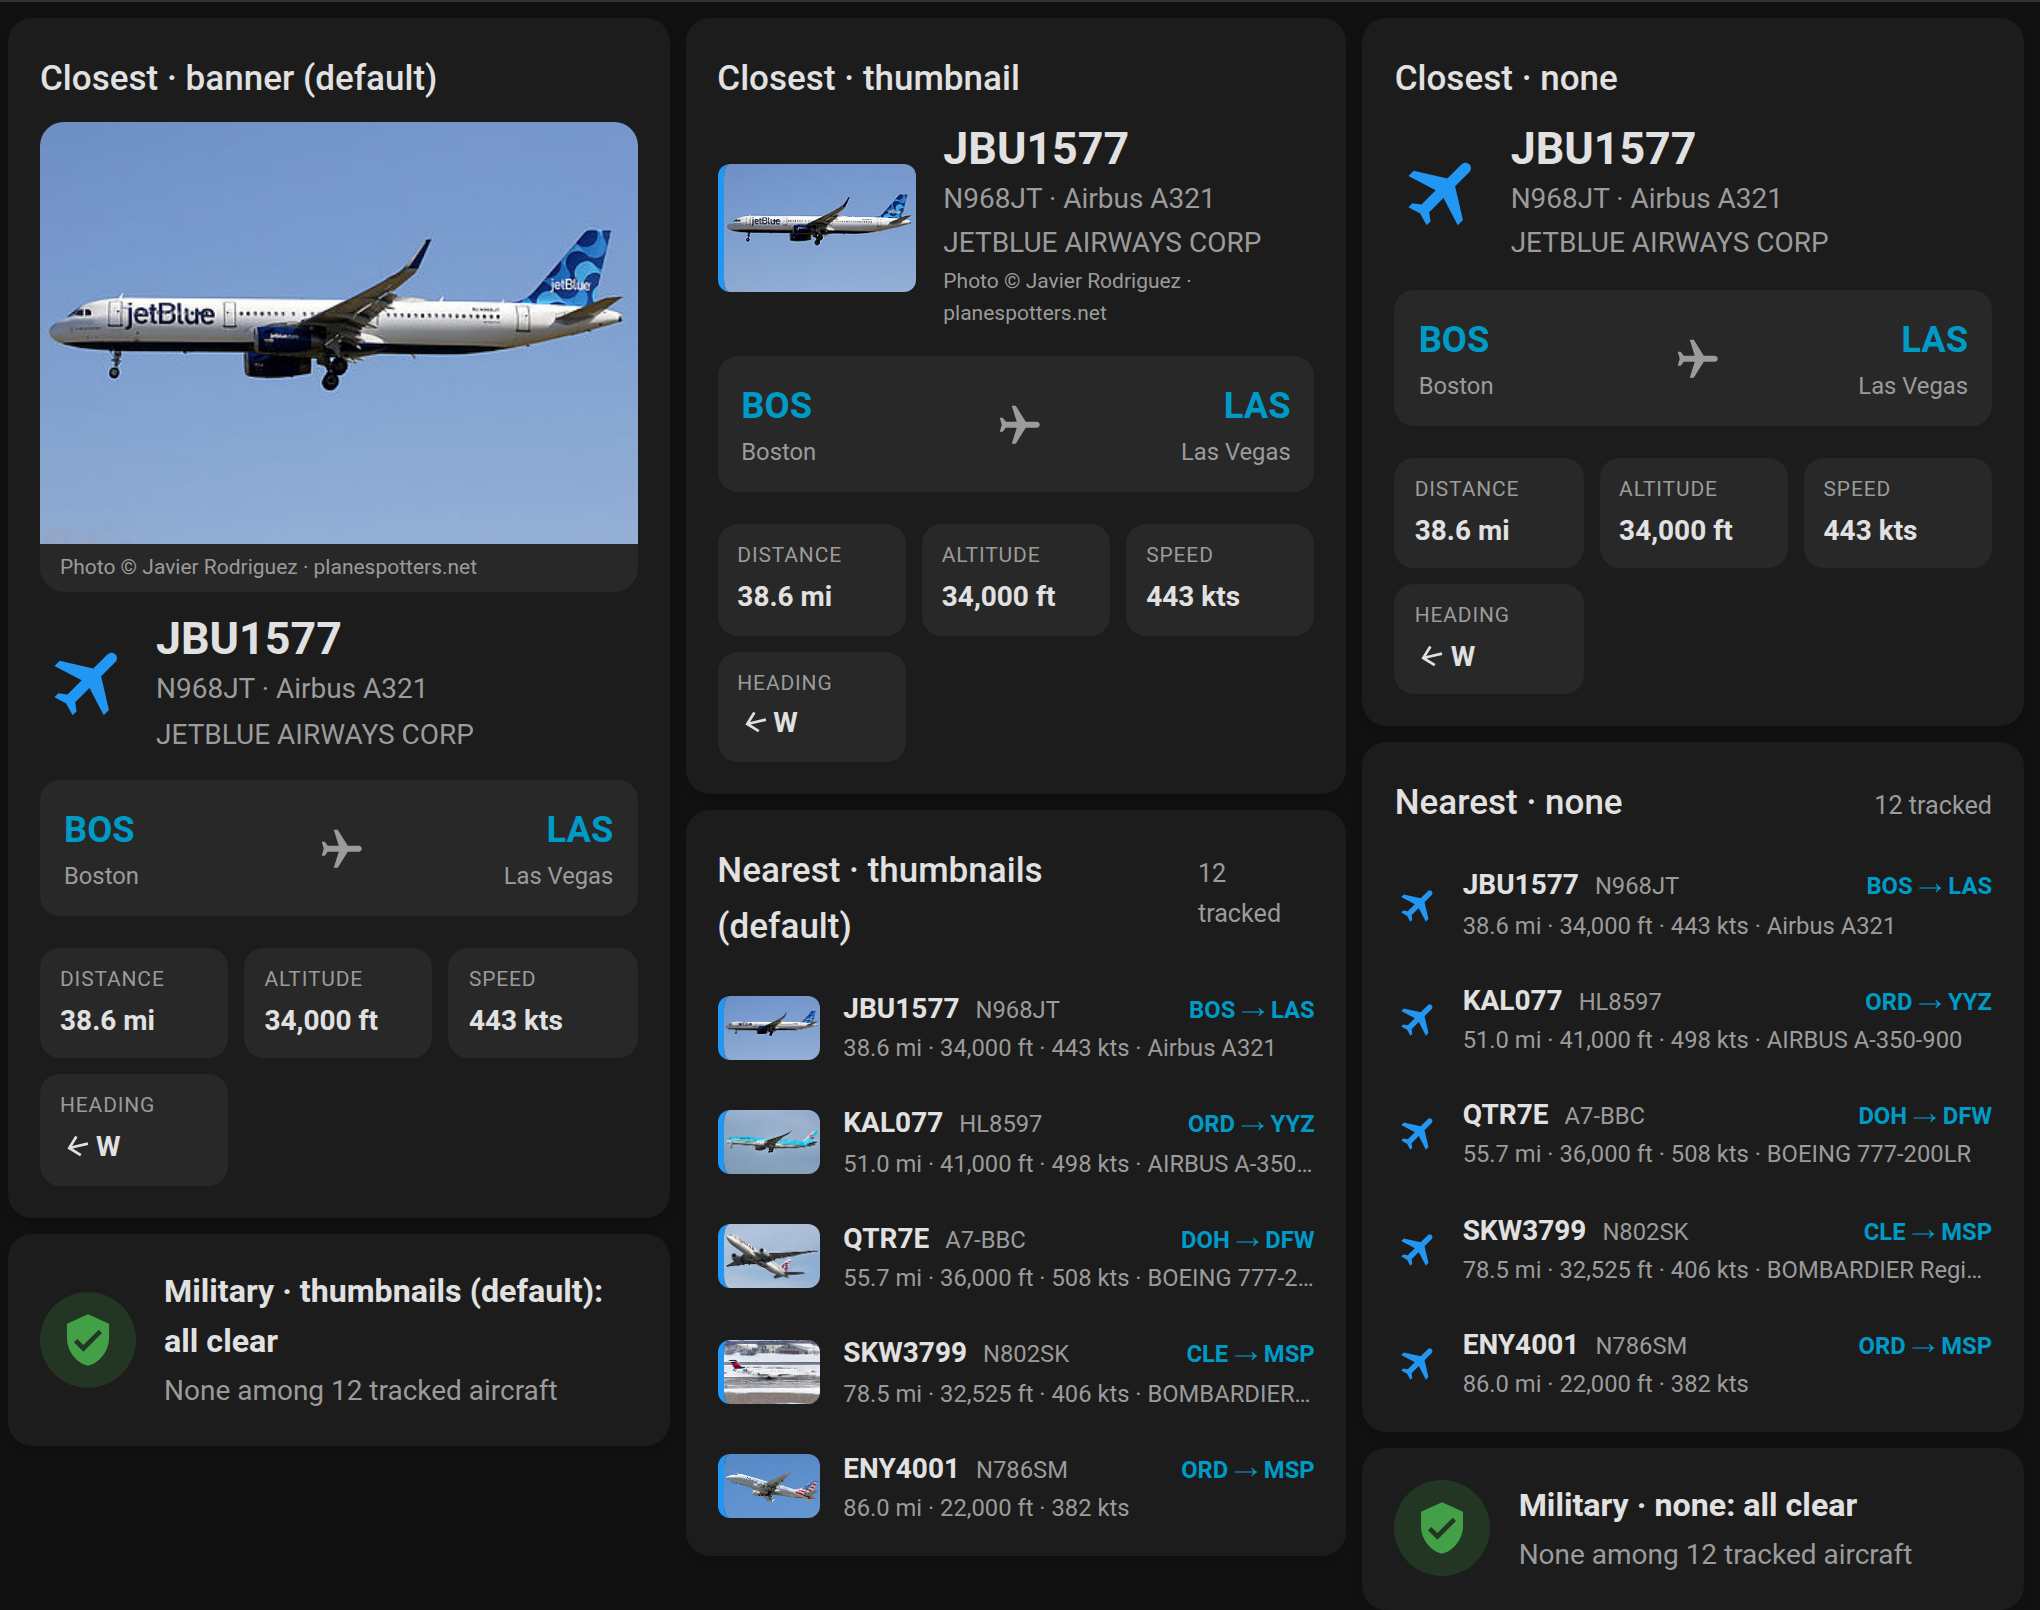
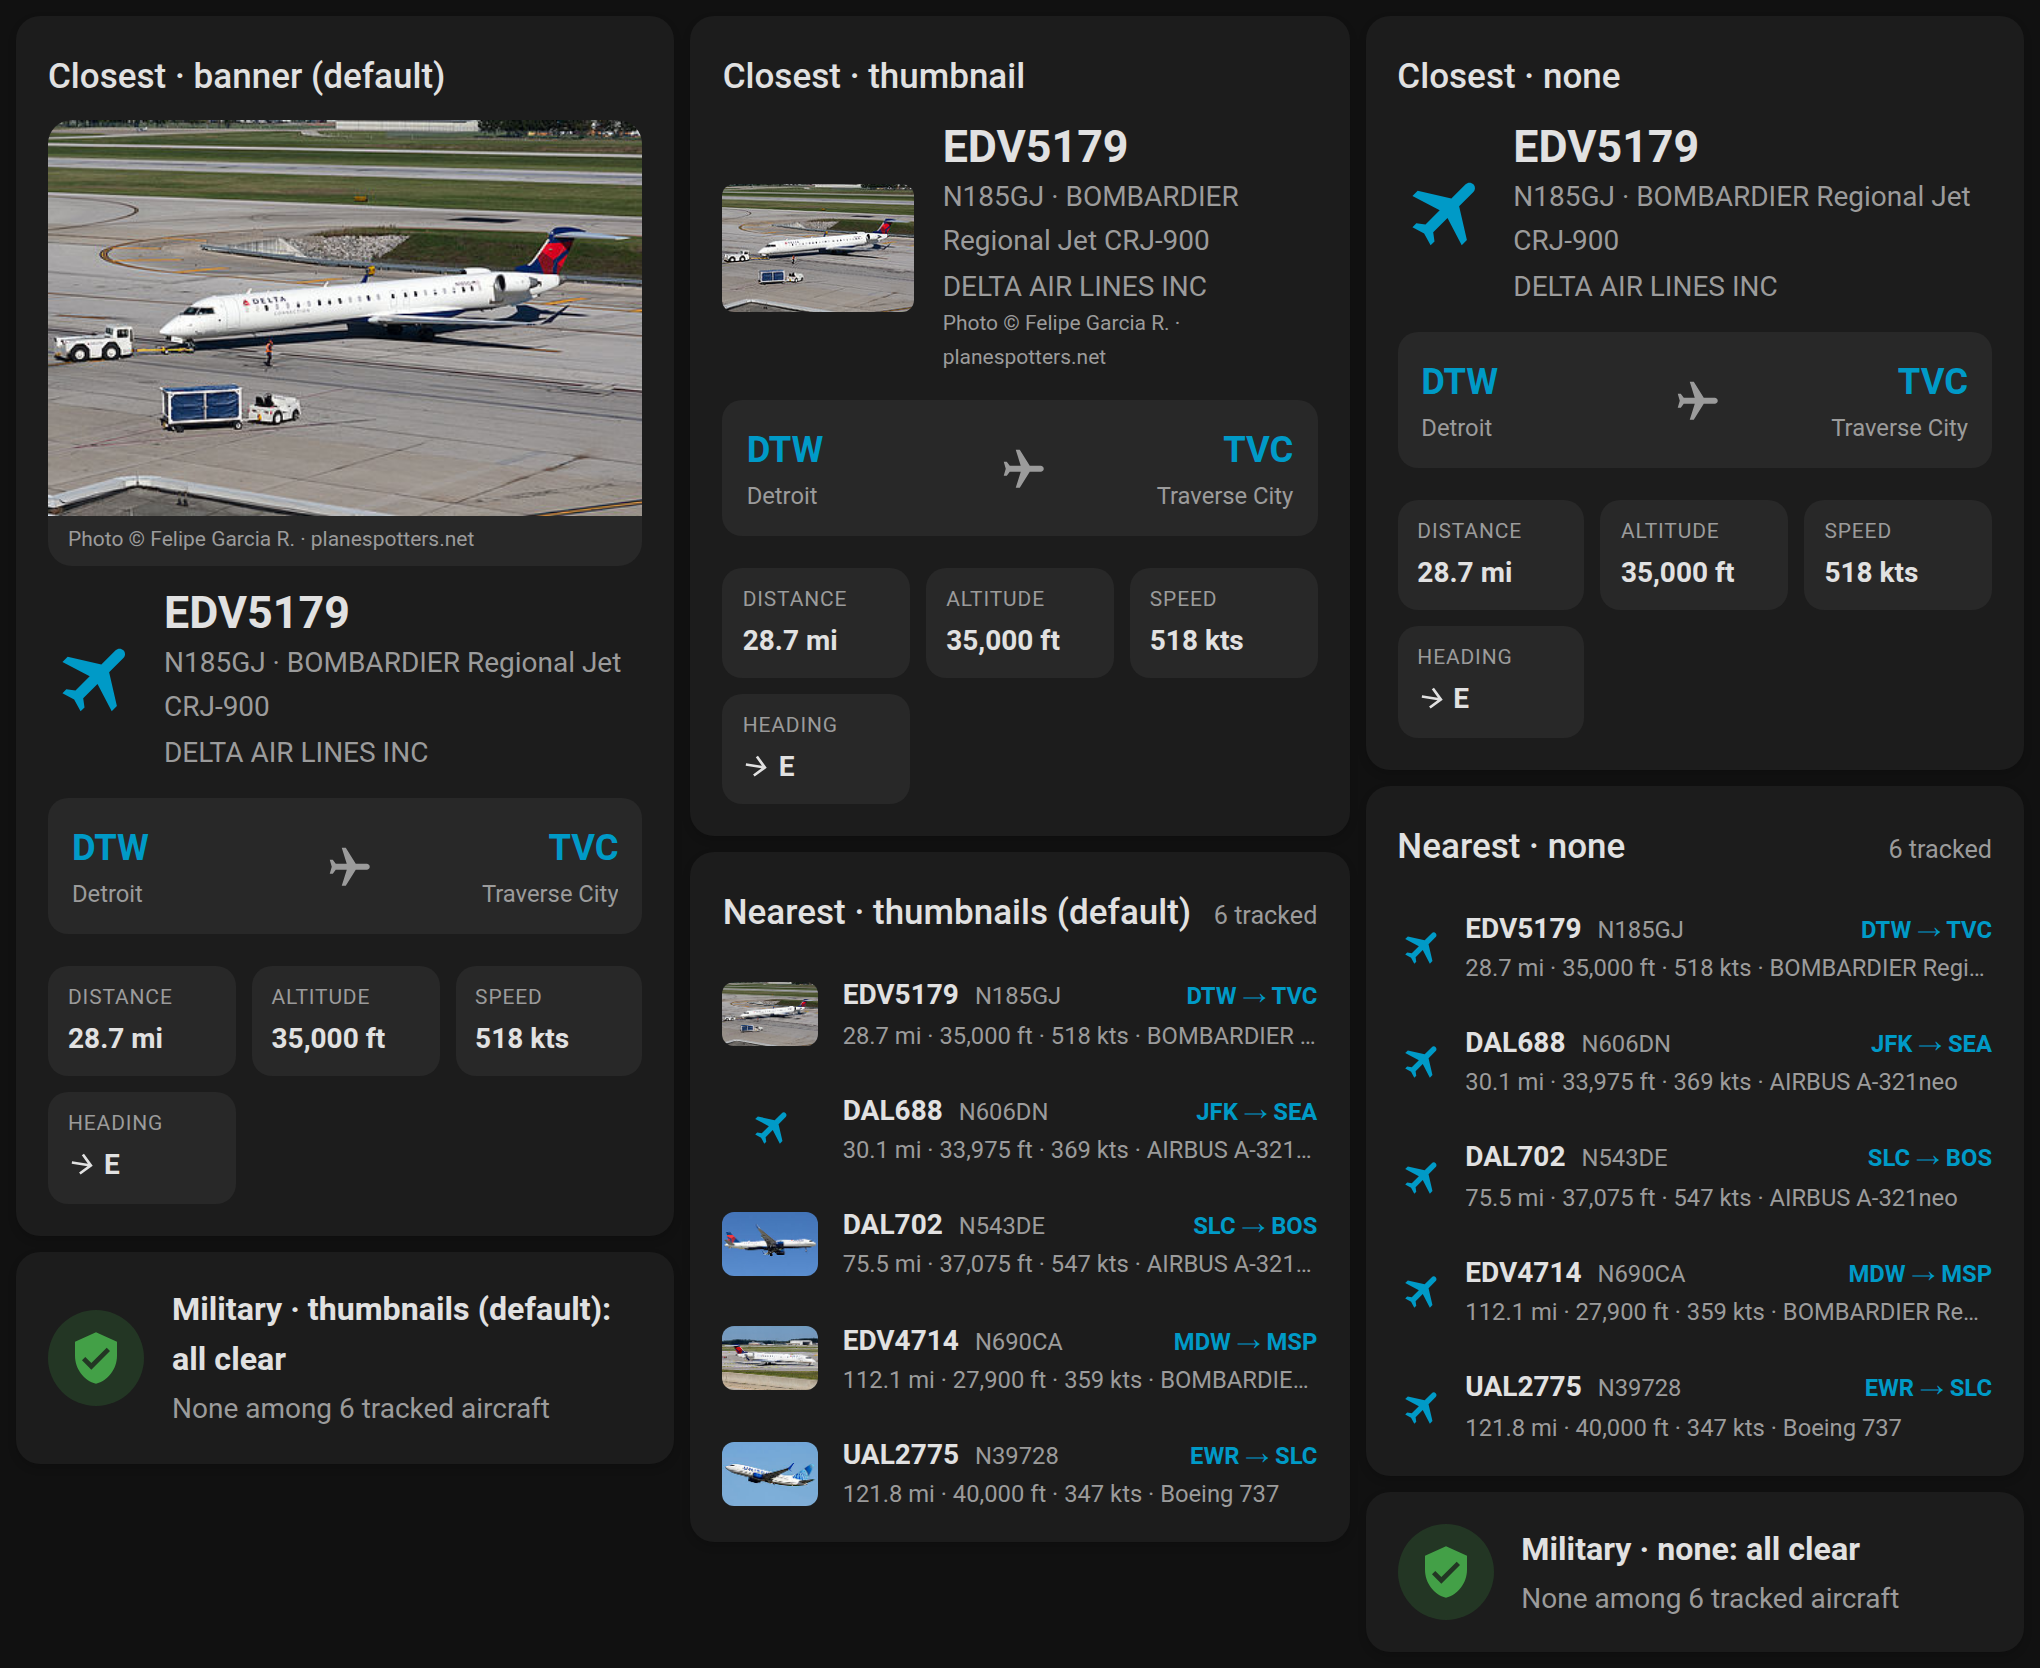
Cards: drop altitude coloring, align rows without a photo
The colored strip on the left edge of thumbnails is gone and airplane
icons use the theme's primary color. The icon that stands in for a
missing photo takes the photo's width so mixed lists line up. README
screenshots retaken.

diff --git a/custom_components/adsb_aircraft_tracker/frontend/adsb-aircraft-tracker-card.js b/custom_components/adsb_aircraft_tracker/frontend/adsb-aircraft-tracker-card.js
@@ -41,12 +41,6 @@ const compass = (deg) => COMPASS[Math.round((((deg % 360) + 360) % 360) / 45) % 
 const identOf = (a) =>
   a.flight || (a.tail && a.tail !== "Unknown" ? a.tail : null) || (a.hex ? a.hex.toUpperCase() : "Unknown");
 
-const altBand = (a) => {
-  const alt = Number(a.altitude_ft) || 0;
-  if (a.on_ground || alt === 0) return "ground";
-  return alt < 3000 ? "low" : alt < 10000 ? "mid" : "high";
-};
-
 function trackerEntities(hass, deviceId) {
   const found = {};
   for (const entry of Object.values(hass.entities || {})) {
@@ -76,16 +70,12 @@ const BASE_STYLE = `
   .title { font-size: 1.25em; font-weight: 500; }
   .muted { color: var(--secondary-text-color); }
   .empty { padding: 16px; color: var(--secondary-text-color); }
-  ha-icon.high { color: var(--blue-color, #2196f3); }
-  ha-icon.mid { color: var(--orange-color, #ff9800); }
-  ha-icon.low { color: var(--deep-orange-color, #ff5722); }
-  ha-icon.ground { color: var(--disabled-text-color); }
+  ha-icon.plane { color: var(--primary-color); }
   .route { font-weight: 600; color: var(--primary-color); white-space: nowrap; }
-  /* Small photo in place of the airplane icon; left edge keeps the altitude color */
-  .thumb { flex: none; width: 48px; height: 32px; object-fit: cover; border-radius: 6px; border-left: 3px solid var(--disabled-text-color); background: var(--secondary-background-color); }
-  .thumb.high { border-color: var(--blue-color, #2196f3); }
-  .thumb.mid { border-color: var(--orange-color, #ff9800); }
-  .thumb.low { border-color: var(--deep-orange-color, #ff5722); }
+  /* Small photo in place of the airplane icon */
+  .thumb { flex: none; width: 48px; height: 32px; object-fit: cover; border-radius: 6px; background: var(--secondary-background-color); }
+  /* The icon standing in for a missing photo takes the photo's width, so rows line up */
+  ha-icon.nophoto { display: inline-flex; justify-content: center; width: 48px; }
   .credit { font-size: 0.75em; color: var(--secondary-text-color); }
   .credit a { color: inherit; text-decoration: none; }
   .credit a:hover { text-decoration: underline; }
@@ -109,8 +99,8 @@ const photoMode = (config, fallback) => (config.photos === undefined ? fallback 
 
 // Small photo in place of the airplane icon, or the icon when there is none
 const thumbOrIcon = (a) => a.photo_thumbnail
-  ? `<img class="thumb ${altBand(a)}" src="${esc(a.photo_thumbnail)}" alt="" loading="lazy" title="${esc(a.photo_photographer ? `Photo © ${a.photo_photographer} · planespotters.net` : "planespotters.net")}">`
-  : `<ha-icon class="${altBand(a)}" icon="mdi:airplane"></ha-icon>`;
+  ? `<img class="thumb" src="${esc(a.photo_thumbnail)}" alt="" loading="lazy" title="${esc(a.photo_photographer ? `Photo © ${a.photo_photographer} · planespotters.net` : "planespotters.net")}">`
+  : `<ha-icon class="plane nophoto" icon="mdi:airplane"></ha-icon>`;
 
 // planespotters.net asks for photographer credit and a link to the photo page
 const photoCredit = (a) => a.photo_link
@@ -256,7 +246,7 @@ class AdsbAircraftTrackerCard extends AdsbBaseCard {
       const desc = a.description && a.description !== "Unknown aircraft" ? a.description : "";
       rows.push(`
         <div class="row" data-entity="${esc(this._ids.top_aircraft)}">
-          ${photos ? thumbOrIcon(a) : `<ha-icon class="${altBand(a)}" icon="mdi:airplane"></ha-icon>`}
+          ${photos ? thumbOrIcon(a) : `<ha-icon class="plane" icon="mdi:airplane"></ha-icon>`}
           <div class="main">
             <div class="line1"><span class="ident">${esc(ident)}</span>${sub ? `<span class="sub">${esc(sub)}</span>` : ""}${route}</div>
             <div class="line2">${facts}${desc ? ` · ${esc(desc)}` : ""}</div>
@@ -292,6 +282,7 @@ class AdsbClosestAircraftCard extends AdsbBaseCard {
   }
   static style = `
     .hero .thumb { width: 96px; height: 64px; }
+    .hero ha-icon.nophoto { width: 96px; }
     .photo { margin: 0 16px 10px; border-radius: 12px; overflow: hidden; background: var(--secondary-background-color); }
     .photo img { display: block; width: 100%; max-height: 220px; object-fit: cover; }
     .photo .credit { padding: 4px 10px; }
@@ -345,7 +336,7 @@ class AdsbClosestAircraftCard extends AdsbBaseCard {
     const mode = photoMode(this._config, "banner");
     const photo = mode === "banner" && a.photo_large
       ? `<div class="photo"><img src="${esc(a.photo_large)}" alt="${esc(ident)}" loading="lazy">${photoCredit(a)}</div>` : "";
-    const heroIcon = mode === "thumbnail" ? thumbOrIcon(a) : `<ha-icon class="${altBand(a)}" icon="mdi:airplane"></ha-icon>`;
+    const heroIcon = mode === "thumbnail" ? thumbOrIcon(a) : `<ha-icon class="plane" icon="mdi:airplane"></ha-icon>`;
     const heroCredit = mode === "thumbnail" && a.photo_thumbnail ? photoCredit(a) : "";
     return `
       <ha-card data-entity="${esc(this._ids.closest_aircraft)}">

diff --git a/README.md b/README.md
@@ -6,9 +6,13 @@
 
 A comprehensive Home Assistant integration for tracking aircraft using ADSB data from dump1090/tar1090 feeders, with built-in dashboard cards, voice queries and military aircraft alerts.
 
-![ADSB Aircraft Tracker dashboard cards: closest aircraft with its photo, nearest aircraft with thumbnails and routes, military alert and receiver stats](https://raw.githubusercontent.com/hook-365/adsb-aircraft-tracker/main/images/dashboard-cards-v1.7.png)
+![ADSB Aircraft Tracker dashboard cards: closest aircraft with its photo, nearest aircraft with thumbnails and routes, military alert and receiver stats](https://raw.githubusercontent.com/hook-365/adsb-aircraft-tracker/main/images/dashboard-cards.png)
 
 ## What's New
+
+**1.8.3 — Plainer cards.** The dashboard cards no longer color aircraft by
+altitude: the colored strip on small photos is gone and airplane icons use
+your theme's primary color. Rows without a photo now line up with the rest.
 
 **1.8.2 — Overhead alerts, and your own alert wording.** A new alert for
 aircraft almost straight above you at any altitude, with an adjustable angle
@@ -44,7 +48,7 @@ offers you the update, so you can see what changed before you install it.
 
 📊 **Dashboard Cards** (built in, nothing to install)
 - Four ready-made cards in the dashboard **Add card** picker (live preview, one click): nearest aircraft, closest aircraft detail, military alert, receiver stats
-- Routes, altitude coloring, climb/descent and heading at a glance
+- Routes, climb/descent and heading at a glance
 - A photo of the airframe from [planespotters.net](https://www.planespotters.net) on the closest-aircraft card, thumbnails in the list, and the picture in notifications (nearest and military aircraft, cached a day, credited)
 - Find your tracker's entities automatically, with a visual editor, and work with multiple feeders
 
@@ -150,7 +154,7 @@ The integration ships four dashboard cards. There's nothing to install: they loa
 
 | Card | Shows |
 |------|-------|
-| **ADSB Aircraft Tracker** (`custom:adsb-aircraft-tracker-card`) | The nearest 1–5 aircraft: callsign, tail, route, distance, altitude, speed, colored by altitude, with a military flag |
+| **ADSB Aircraft Tracker** (`custom:adsb-aircraft-tracker-card`) | The nearest 1–5 aircraft: callsign, tail, route, distance, altitude, speed, with a military flag |
 | **ADSB Closest Aircraft** (`custom:adsb-closest-aircraft-card`) | The closest aircraft in detail: photo, type, operator, route with city names, distance, altitude with climb/descent, speed, heading, emergency squawks |
 | **ADSB Military Alert** (`custom:adsb-military-card`) | A green "all clear", or a red alert listing each military aircraft detected |
 | **ADSB Stats** (`custom:adsb-stats-card`) | Tracked aircraft, closest distance, military count and military-database health |
@@ -177,8 +181,7 @@ Pick the style in the card editor or with `photos:`:
 | ADSB Aircraft Tracker | `thumbnail` (small photo per row), `none` | `thumbnail` |
 | ADSB Military Alert | `thumbnail` (small photo per row), `none` | `thumbnail` |
 
-Small photos keep the altitude color as a strip on their left edge, and
-aircraft without a photo (most GA traffic) fall back to the airplane icon,
+Aircraft without a photo (most GA traffic) fall back to the airplane icon,
 so mixed lists stay aligned. Every photo credits the photographer and
 links to its planespotters.net page.
 

diff --git a/CHANGELOG.md b/CHANGELOG.md
@@ -10,6 +10,17 @@ versions follow [Semantic Versioning](https://semver.org/).
 
 ## [Unreleased]
 
+### Changed
+- **Dashboard cards no longer color aircraft by altitude.** The colored
+  strip on the left edge of small photos is gone, and airplane icons use
+  the theme's primary color instead of blue/orange by altitude band. The
+  altitude is still shown as a number on every row.
+
+### Fixed
+- **Rows without a photo line up with the rest.** The airplane icon that
+  stands in for a missing photo now takes the photo's width, so callsigns
+  start at the same place on every row.
+
 ## [1.8.2] - 2026-11-10
 
 ### Added
